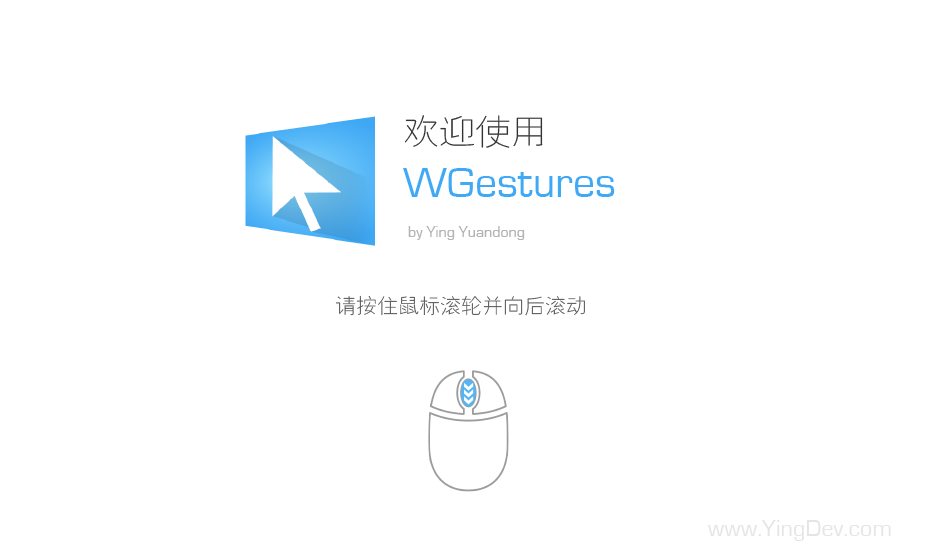
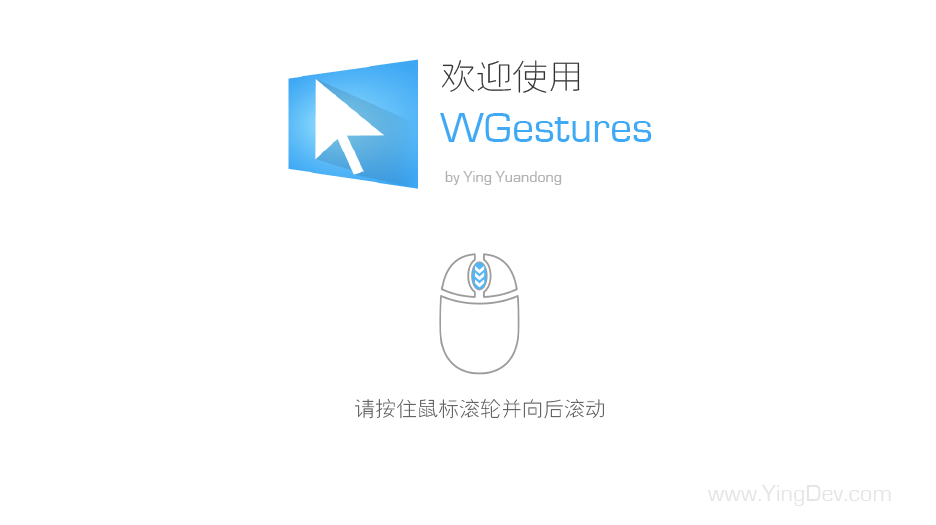
slides refine

diff --git a/WGestures.App/QuickStartGuide/index.html b/WGestures.App/QuickStartGuide/index.html
@@ -10,6 +10,7 @@
         html, body,ul {
             margin: 0;
             padding: 0;
+            background: white;
         }
 
         a {
@@ -27,7 +28,7 @@
         }
 
         .slidesjs-navigation {
-            top: 40%;
+            top: 35%;
             position: absolute;
             background: white;
             width: 80px;
@@ -65,7 +66,7 @@
             text-align: left;
             list-style: none;
             overflow: hidden;
-            margin-top: 10px;
+            margin-top: 20px;
         }
 
         .slidesjs-pagination li {
@@ -131,7 +132,7 @@
 
             $('#slides').slidesjs({
                 width: 936,
-                height: 560,
+                height: 525,
                 navigation: false,
                 effect: {
                     slide: {

diff --git a/WGestures.App/QuickStartGuide/QuickStartGuideForm.Designer.cs b/WGestures.App/QuickStartGuide/QuickStartGuideForm.Designer.cs
@@ -51,7 +51,7 @@ namespace WGestures.App.Gui.Windows
             this.web_container.Name = "web_container";
             this.web_container.ScriptErrorsSuppressed = true;
             this.web_container.ScrollBarsEnabled = false;
-            this.web_container.Size = new System.Drawing.Size(936, 560);
+            this.web_container.Size = new System.Drawing.Size(936, 535);
             this.web_container.TabIndex = 0;
             this.web_container.WebBrowserShortcutsEnabled = false;
             this.web_container.PreviewKeyDown += new System.Windows.Forms.PreviewKeyDownEventHandler(this.web_container_PreviewKeyDown);
@@ -62,7 +62,8 @@ namespace WGestures.App.Gui.Windows
             this.AutoScaleMode = System.Windows.Forms.AutoScaleMode.Dpi;
             this.AutoSize = true;
             this.AutoSizeMode = System.Windows.Forms.AutoSizeMode.GrowAndShrink;
-            this.ClientSize = new System.Drawing.Size(944, 534);
+            this.BackColor = System.Drawing.Color.White;
+            this.ClientSize = new System.Drawing.Size(469, 280);
             this.Controls.Add(this.web_container);
             this.FormBorderStyle = System.Windows.Forms.FormBorderStyle.FixedSingle;
             this.KeyPreview = true;
@@ -70,6 +71,7 @@ namespace WGestures.App.Gui.Windows
             this.MaximizeBox = false;
             this.MinimizeBox = false;
             this.Name = "QuickStartGuideForm";
+            this.Padding = new System.Windows.Forms.Padding(0, 20, 0, 20);
             this.StartPosition = System.Windows.Forms.FormStartPosition.CenterScreen;
             this.Text = "WGestures快速入门";
             this.Load += new System.EventHandler(this.QuickStartGuidForm_Load);

diff --git a/README.md b/README.md
@@ -15,5 +15,5 @@ Visual Studio 2013, .Net Framework 3.5 SDK
 首次Build请先运行 `/makeTestCert.bat` 并按提示生成测试证书（根证书和签名证书分别自动拷贝到了  `/WGestures.App/cert/YingDevCA.cer` 和 `/YingDevSPC.pfx` ), 该证书会在BuildEvent中用于对生成的exe进行签名。
 
 ###Todo
- * 手势列表条目拖拽排序
  * 使用单独的AppDomain来完成IO和配置, 从而减小程序集占用的内存
+ * 消除Core对WinForms依赖, 使用Win32/Com替代NotifyIcon, Clippboard, Screen.
